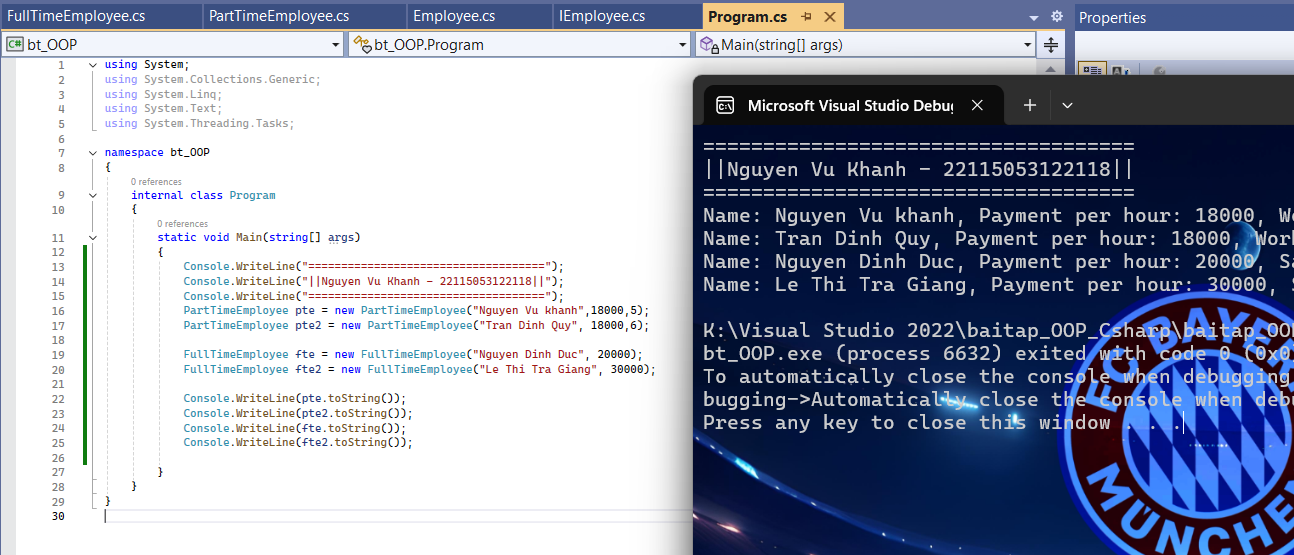
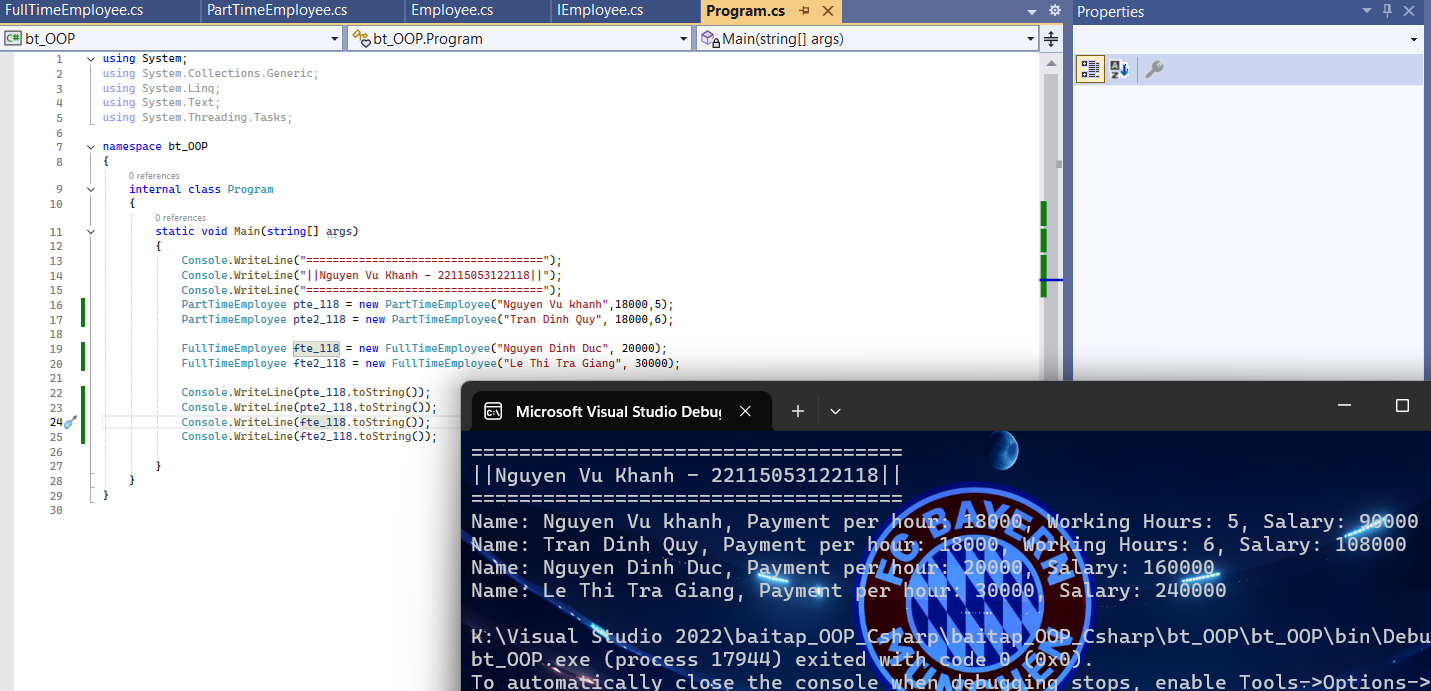
sua ten bien o main va anh chup code voi ket qua

diff --git a/bt_OOP/bt_OOP/Program.cs b/bt_OOP/bt_OOP/Program.cs
@@ -13,16 +13,16 @@ namespace bt_OOP
             Console.WriteLine("====================================");
             Console.WriteLine("||Nguyen Vu Khanh - 22115053122118||");
             Console.WriteLine("====================================");
-            PartTimeEmployee pte = new PartTimeEmployee("Nguyen Vu khanh",18000,5);
-            PartTimeEmployee pte2 = new PartTimeEmployee("Tran Dinh Quy", 18000,6);
+            PartTimeEmployee pte_118 = new PartTimeEmployee("Nguyen Vu khanh",18000,5);
+            PartTimeEmployee pte2_118 = new PartTimeEmployee("Tran Dinh Quy", 18000,6);
 
-            FullTimeEmployee fte = new FullTimeEmployee("Nguyen Dinh Duc", 20000);
-            FullTimeEmployee fte2 = new FullTimeEmployee("Le Thi Tra Giang", 30000);
+            FullTimeEmployee fte_118 = new FullTimeEmployee("Nguyen Dinh Duc", 20000);
+            FullTimeEmployee fte2_118 = new FullTimeEmployee("Le Thi Tra Giang", 30000);
 
-            Console.WriteLine(pte.toString());
-            Console.WriteLine(pte2.toString());
-            Console.WriteLine(fte.toString());
-            Console.WriteLine(fte2.toString());
+            Console.WriteLine(pte_118.toString());
+            Console.WriteLine(pte2_118.toString());
+            Console.WriteLine(fte_118.toString());
+            Console.WriteLine(fte2_118.toString());
 
         }
     }
